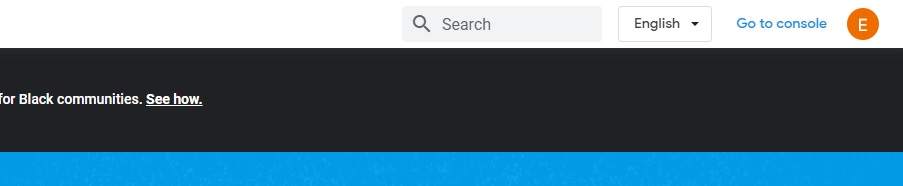
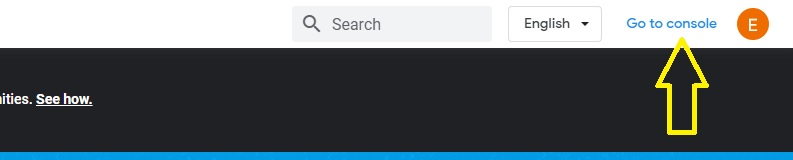
created firebase project

diff --git a/README.md b/README.md
@@ -1,11 +1,31 @@
 # flutter_with_firebase
 
-Create a flutter project  
+### Create a flutter project  
 
-Create a project in firebase console  
+### Create a project in firebase console  
 
 Go to https://firebase.google.com/  
 
 Click on Go to console
 
 ![Go to console](./content_images/go_to_console.jpg)
+
+Create a firebase project
+
+![Create a firebase project](./content_images/create_project_first_time.jpg)
+
+Name your project
+
+![Name your project](./content_images/name_project.jpg)
+
+For the time being we will disable google analytics
+
+![disable analytics](./content_images/disable_analytics.jpg)
+
+
+
+
+
+
+
+
